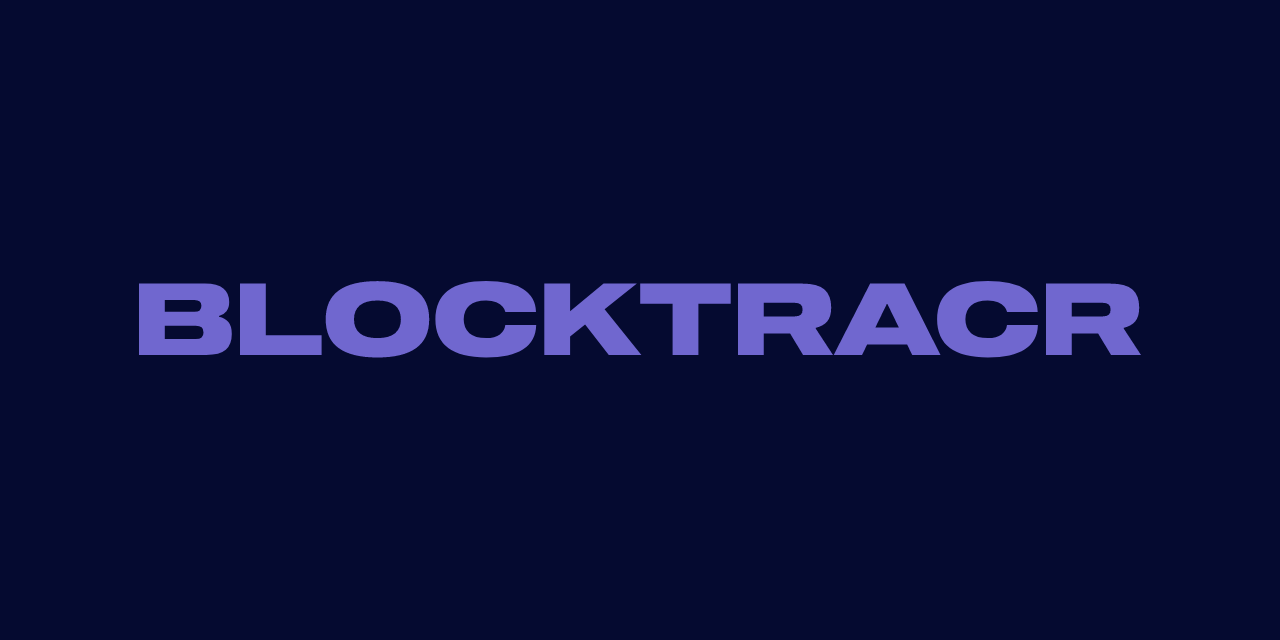
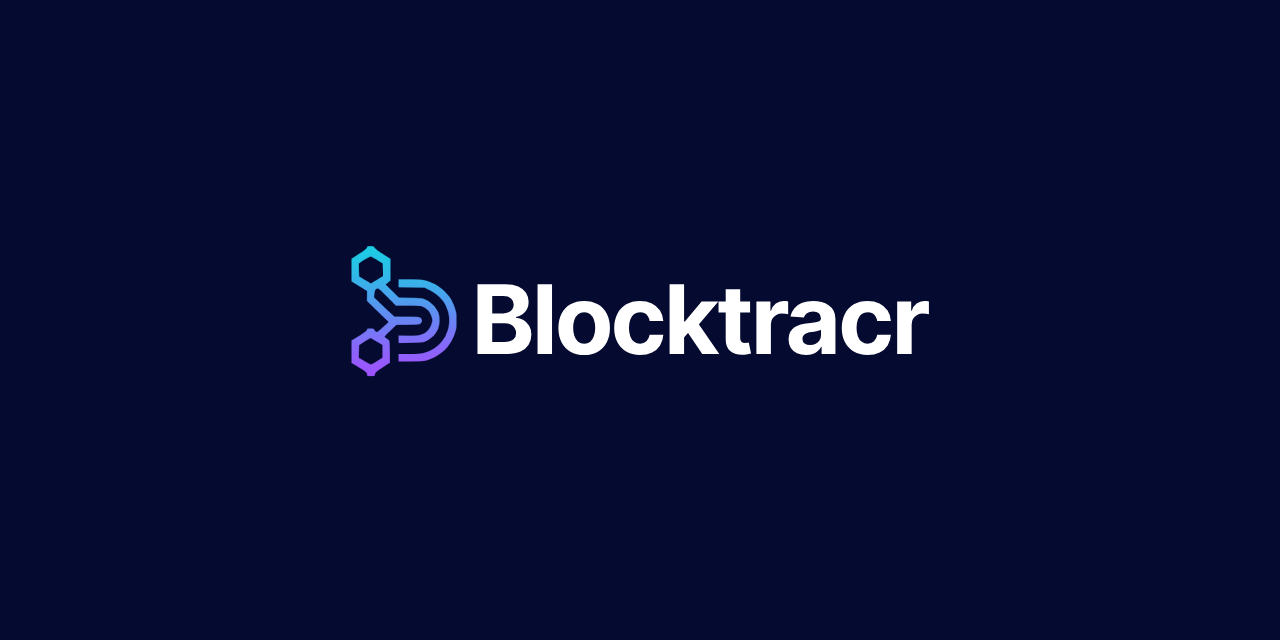
Branding

Changed region(s): [[0.0938, 0.375, 0.9062, 0.5938]]

diff --git a/components/logos/blocktracr.tsx b/components/logos/blocktracr.tsx
@@ -1,0 +1,9 @@
+const Blocktracr = (props: React.SVGProps<SVGSVGElement>) => (
+  <svg width="143" height="177" viewBox="0 0 143 177" {...props}>
+    <path
+      fill="currentColor"
+      d="m25.8 0c3.9-0.1 4.9 0.3 5.8 2.2 0.6 1.3 5.7 5.1 21.4 14.8v30l-6.5 5.1 18 17.8 16 0.3c14.9 0.3 16.4 0.5 21.5 3 3.3 1.6 7.4 4.7 10.3 8 2.6 2.9 5.4 7.3 6.3 9.8 0.8 2.5 1.4 7.1 1.4 10.2 0 3.2-0.9 8.1-1.9 11-1.1 2.9-3.8 7.2-6 9.5-2.3 2.4-6.5 5.5-9.3 7-5.1 2.7-6 2.8-38.8 3.3v-10.5l11.7 0.3c6.5 0.2 14-0.2 16.8-0.8 2.7-0.6 6.7-2.3 8.7-3.8 2.2-1.5 4.9-4.9 6.3-7.7 1.4-2.8 2.5-6.6 2.5-8.5 0-1.9-0.9-5.3-1.9-7.5-1-2.2-2.8-5-4-6.3-1.1-1.2-3.9-3.1-6.1-4.2-3.5-1.8-6-2-37.5-2l-12-12.1c-11.9-11.9-12-12.1-14.5-10.6-2.1 1.3-2.5 2.4-3 11.7l9.7 9.3c5.4 5.2 11.6 11 17.8 16.6l17 0.1c14.7 0 17.2 0.3 18.8 1.8 1 0.9 1.7 2.6 1.7 3.7 0 1.1-0.8 2.8-1.8 3.8-1.5 1.5-3.6 1.8-32.7 1.7l-8.5 8.1c-8.4 7.9-8.5 8-6.4 9.7 1.2 0.9 3 2.2 3.9 2.7 1.6 0.9 1.8 2.8 2 31l-10.2 6.7c-8.5 5.6-10.3 7.2-10.3 9.3 0 2.4-0.3 2.5-5.5 2.5-5.3 0-5.5-0.1-5.5-2.8 0-2.4-1.2-3.4-21-15.2l-0.1-30.5 10.6-6.5c6.7-4.2 10.5-7.1 10.5-8.3 0-1.4 0.9-1.7 4.8-1.7 3.9 0 4.9 0.4 5.7 2.2 0.6 1.3 1.8 2.4 2.8 2.5 1 0.2 4.7-2.6 16.2-13.5l-29.6-28.7 0.1-13.5-21-13v-31l10.5-6.8c6.9-4.4 10.6-7.3 10.5-8.5 0-1.4 0.9-1.7 4.8-1.7zm-8.6 18.8l-7.2 4.7 0.5 17.8 16 9.4 16.5-10.2-0.5-16.9c-11.6-7.4-15.7-9.5-16.5-9.5-0.8 0.1-4.8 2.2-8.8 4.7zm46.8 26.2h15.3c10.6 0 17 0.5 21.2 1.6 3.3 0.8 8.9 2.9 12.4 4.7 3.5 1.8 9.3 5.9 12.9 9.2 3.5 3.3 7.9 8.5 9.7 11.5 1.8 3 4.3 8.9 5.6 13 1.7 5.5 2.3 10 2.3 16.5 0 6.5-0.6 11-2.2 16-1.2 3.9-3.5 9.2-5.1 12-1.6 2.7-4.7 7-6.8 9.5-2.2 2.5-6.9 6.4-10.4 8.7-3.5 2.4-9.5 5.4-13.4 6.8-6.4 2.3-8.4 2.5-41.5 2.5v-10h13.5c7.4 0 15.9-0.5 18.8-1.1 2.8-0.6 8-2.4 11.5-4 3.7-1.8 8.4-5.1 11.7-8.4 3-3 6.7-7.9 8.2-10.8 1.4-2.8 3.2-7.5 3.9-10.2 0.8-2.8 1.4-8 1.4-11.8 0-3.7-0.8-9.3-1.8-12.5-1-3.1-3-7.7-4.4-10.2-1.4-2.5-5.1-6.9-8.2-9.8-3.1-2.8-8.6-6.7-19.1-11.7l-35.5-0.5zm-46 84.9l-7.5 4.8-0.5 17.3c12 6.9 15.9 9 16.5 9 0.6 0 4.3-2 8.3-4.5l7.2-4.5v-17.5c-11.9-7-15.6-9.1-15.9-9.2-0.4 0-4 2-8.1 4.6z"
+    />
+  </svg>
+);
+export default Blocktracr;

diff --git a/app/components/BentoGrid.tsx b/app/components/BentoGrid.tsx
@@ -14,7 +14,7 @@ import {
   TextCursor,
   Wrench,
 } from "lucide-react";
-import LaunchUI from "@/components/logos/launch-ui";
+import Blocktracr from "@/components/logos/blocktracr";
 
 function Rocket() {
   return (
@@ -99,7 +99,7 @@ function Rocket() {
                                       <div className="glass-5 border-brand-foreground/50 dark:border-border flex h-full w-full items-center justify-center rounded-full p-2.5 shadow-md">
                                         <div className="after:-xl relative after:absolute after:inset-0 after:scale-[2] after:rounded-full after:bg-[radial-gradient(ellipse_at_center,_hsla(var(--brand)/.3)_10%,_hsla(var(--brand)/0)_60%)] after:opacity-70 after:content-['']">
                                           <div className="relative z-10">
-                                            <LaunchUI className="text-foreground h-16 w-16" />
+                                            <Blocktracr className="text-foreground h-16 w-16" />
                                           </div>
                                         </div>
                                       </div>
@@ -424,7 +424,7 @@ export default function BentoGrid() {
                   <div className="bg-accent/5 absolute top-0 left-0 z-10 flex w-full min-w-[680px] translate-y-0 overflow-hidden rounded-2xl p-2 transition-all duration-1000 ease-in-out group-hover:-translate-y-4">
                     <div className="border-border/70 dark:border-border/5 dark:border-t-border/15 relative z-10 flex overflow-hidden rounded-md border shadow-2xl">
                       <Image
-                        alt="Launch UI app screenshot"
+                        alt="Blocktracr App"
                         loading="lazy"
                         width="1340"
                         height="820"

diff --git a/app/components/Features.tsx b/app/components/Features.tsx
@@ -11,6 +11,8 @@ import { useCryptoListData } from "@/hooks/useCryptoListData";
 
 import Image from "next/image";
 
+import Blocktracr from "@/components/logos/blocktracr";
+
 const Circle = forwardRef<
   HTMLDivElement,
   { className?: string; children?: React.ReactNode }
@@ -105,12 +107,7 @@ export default function Features() {
                   className="dark:bg-muted-foreground/50 size-16 drop-shadow-[2px_1px_12px_hsla(var(--brand-foreground))]"
                   ref={div4Ref}
                 >
-                  <Image
-                    src="/images/logo.png"
-                    alt="Logo"
-                    width={32}
-                    height={32}
-                  />
+                  <Blocktracr className="h-8 w-8" />
                 </Circle>
                 <Circle
                   className="dark:bg-muted-foreground/50 drop-shadow-[2px_1px_12px_hsla(var(--brand-foreground))]"

diff --git a/app/components/Layout/Footer.tsx b/app/components/Layout/Footer.tsx
@@ -4,7 +4,7 @@ import {
   FooterBottom,
   FooterContent,
 } from "@/components/ui/footer";
-import LaunchUI from "@/components/logos/launch-ui";
+import Blocktracr from "@/components/logos/blocktracr";
 import Link from "next/link";
 import Github from "@/components/logos/github";
 
@@ -18,7 +18,7 @@ export default function FooterSection() {
           <FooterContent className="sm:grid-cols-2 md:grid-cols-3">
             <FooterColumn className="col-span-2 flex-row items-center justify-between gap-8 border-b pb-8 md:col-span-1 md:flex-col md:items-start md:justify-start md:border-b-0">
               <div className="flex items-center gap-2">
-                <LaunchUI />
+                <Blocktracr className="h-6 w-6" />
                 <h3 className="text-xl font-bold">Blocktracr</h3>
               </div>
               <div className="ml-2.5 flex gap-4 sm:ml-0">

diff --git a/components/ui/navigation.tsx b/components/ui/navigation.tsx
@@ -13,7 +13,7 @@ import {
   NavigationMenuTrigger,
   navigationMenuTriggerStyle,
 } from "./navigation-menu";
-import LaunchUI from "../logos/launch-ui";
+import Blocktracr from "@/components/logos/blocktracr";
 
 export default function Navigation() {
   return (
@@ -29,7 +29,7 @@ export default function Navigation() {
                     className="from-muted/30 to-muted/10 flex h-full w-full flex-col justify-end rounded-md bg-linear-to-b p-6 no-underline outline-hidden select-none focus:shadow-md"
                     href="/"
                   >
-                    <LaunchUI />
+                    <Blocktracr className="h-6 w-6" />
                     <div className="mt-4 mb-2 text-lg font-medium">
                       Blocktracr
                     </div>

diff --git a/app/components/SocialProof.tsx b/app/components/SocialProof.tsx
@@ -110,10 +110,10 @@ export default function SocialProof() {
       <div className="max-w-container mx-auto flex flex-col items-center gap-4 text-center sm:gap-16">
         <div className="flex flex-col items-center gap-4 px-4 sm:gap-8">
           <h2 className="max-w-[720px] text-3xl leading-tight font-semibold sm:text-5xl sm:leading-tight">
-            Loved by designers and developers across the planet
+            Trusted by thousands of crypto traders worldwide
           </h2>
           <p className="text-md text-muted-foreground max-w-[600px] font-medium sm:text-xl">
-            Here&apos;s what people are saying about Launch UI
+            Here&apos;s what people are saying about Blocktracr
           </p>
         </div>
 

diff --git a/app/components/Layout/Navbar.tsx b/app/components/Layout/Navbar.tsx
@@ -9,7 +9,7 @@ import {
 } from "@/components/ui/navbar";
 import { Sheet, SheetContent, SheetTrigger } from "@/components/ui/sheet";
 import { Menu } from "lucide-react";
-import LaunchUI from "@/components/logos/launch-ui";
+import Blocktracr from "@/components/logos/blocktracr";
 import Link from "next/link";
 import ThemeToggle from "@/app/components/Layout/ThemeToggle";
 
@@ -79,7 +79,7 @@ export default function Navbar() {
               href="/"
               className="flex items-center gap-2 text-xl font-bold"
             >
-              <LaunchUI />
+              <Blocktracr className="h-6 w-6" />
               Blocktracr
             </Link>
             <Navigation />
